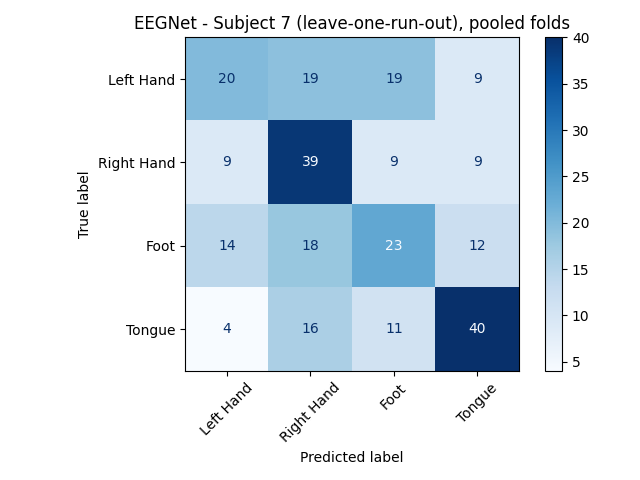
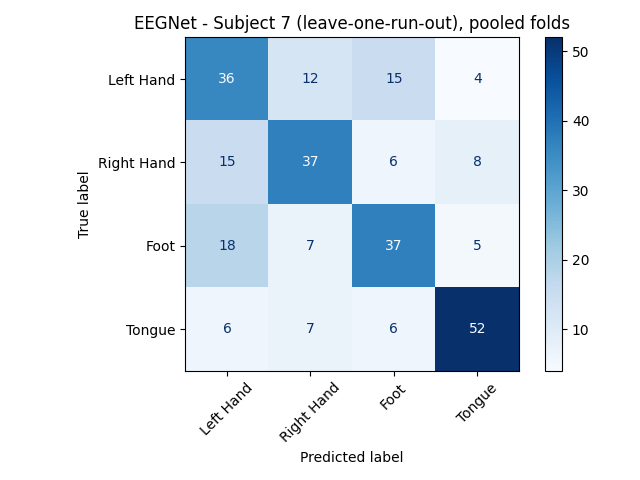
dl/investigation complete

diff --git a/src/eegnet.py b/src/eegnet.py
@@ -168,7 +168,7 @@ def evaluate(model, data_loader, device):
     accuracy = float(np.mean(np.array(y_true) == np.array(y_pred)))
     return accuracy, y_true, y_pred
 
-def run_eegnet_cv(subject_id: int, epochs=150, batch_size=32, device=None):
+def run_eegnet_cv(subject_id: int, epochs=150, batch_size=32, device=None, lr=1e-3, patience=20):
     """
     Runs leave-one-run-out cross-validation for subject_id, mirroring
     baseline.py's role but with EEGNet + the run-based split instead of CSP+LDA + random ShuffleSplit
@@ -190,7 +190,7 @@ def run_eegnet_cv(subject_id: int, epochs=150, batch_size=32, device=None):
 
         # Fresh model per fold. Folds must stay independent
         model = EGGNet(n_channels=22, n_timepoints=dataset.X.shape[-1], n_classes=4)
-        model, val_acc = train_one_fold(model, train_loader, val_loader, device, epochs=epochs)
+        model, val_acc = train_one_fold(model, train_loader, val_loader, device, epochs=epochs, lr=lr, patience=patience)
 
         _, y_true, y_pred = evaluate(model, val_loader, device)
         fold_accuracies.append(val_acc)
